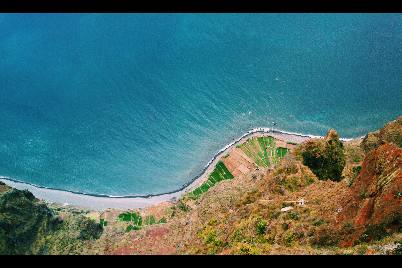
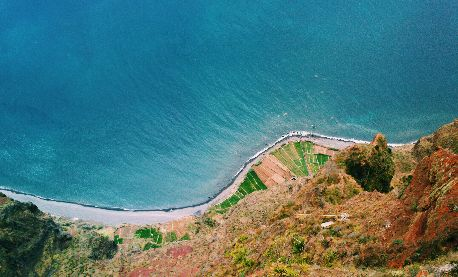
Corrected Photo Thumbnails

diff --git a/index.html b/index.html
@@ -70,7 +70,7 @@
             </div>
             <div class="row" data-equalizer>
                 <div class="medium-4 columns image">
-                    <a href="#" data-reveal-id="photo2-1"><img src="img/photos/photo4_tn.jpg" alt="Photo"  data-equalizer-watch></a>
+                    <a href="#" data-reveal-id="photo2-1"><img src="img/photos/photo4.jpg" alt="Photo"  data-equalizer-watch></a>
                     <div class="info">
                         <span class="avatar avatar5"></span>
                         <span class="attribution">Photo by <b>Werner Bechtelar</b></span>

diff --git a/css/hero.css b/css/hero.css
@@ -1,5 +1,5 @@
 .hero {
-    background: url("../img/photos/photo4_tn.jpg") no-repeat center center;
+    background: url("../img/photos/photo4.jpg") no-repeat center center;
     background-size: cover;
     height: 60vh;
     margin-bottom: 1rem;
